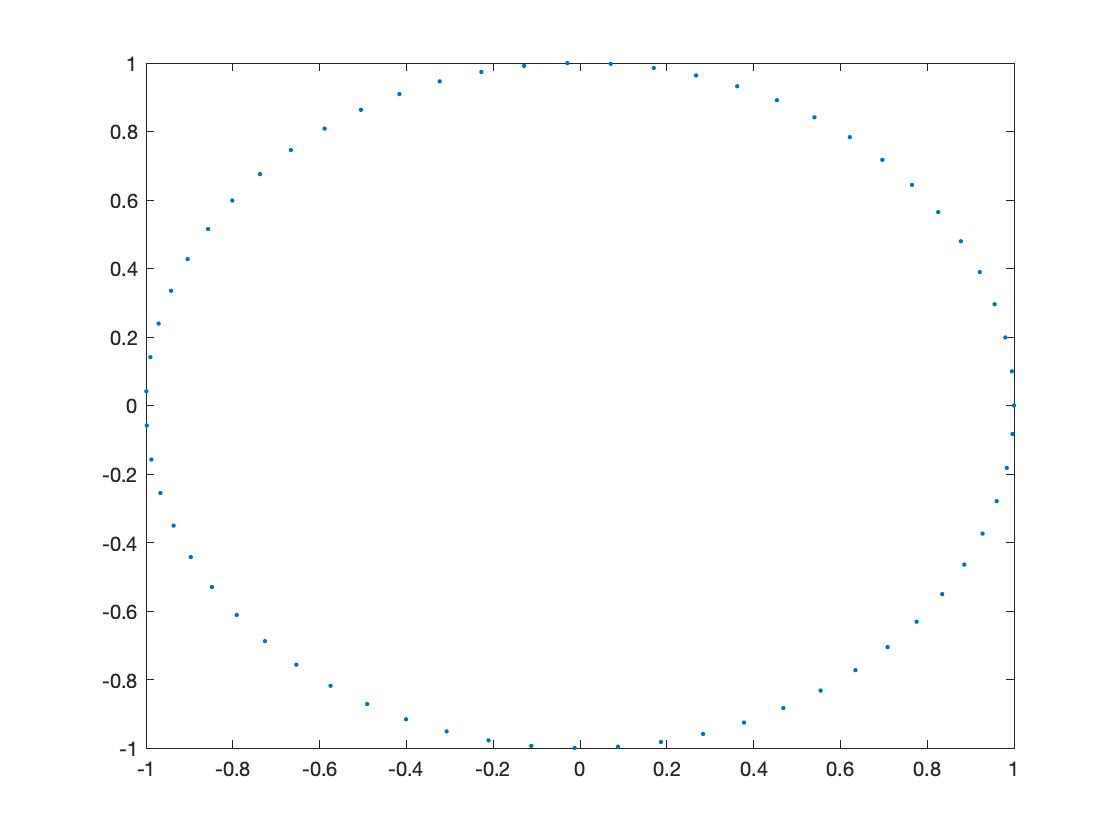
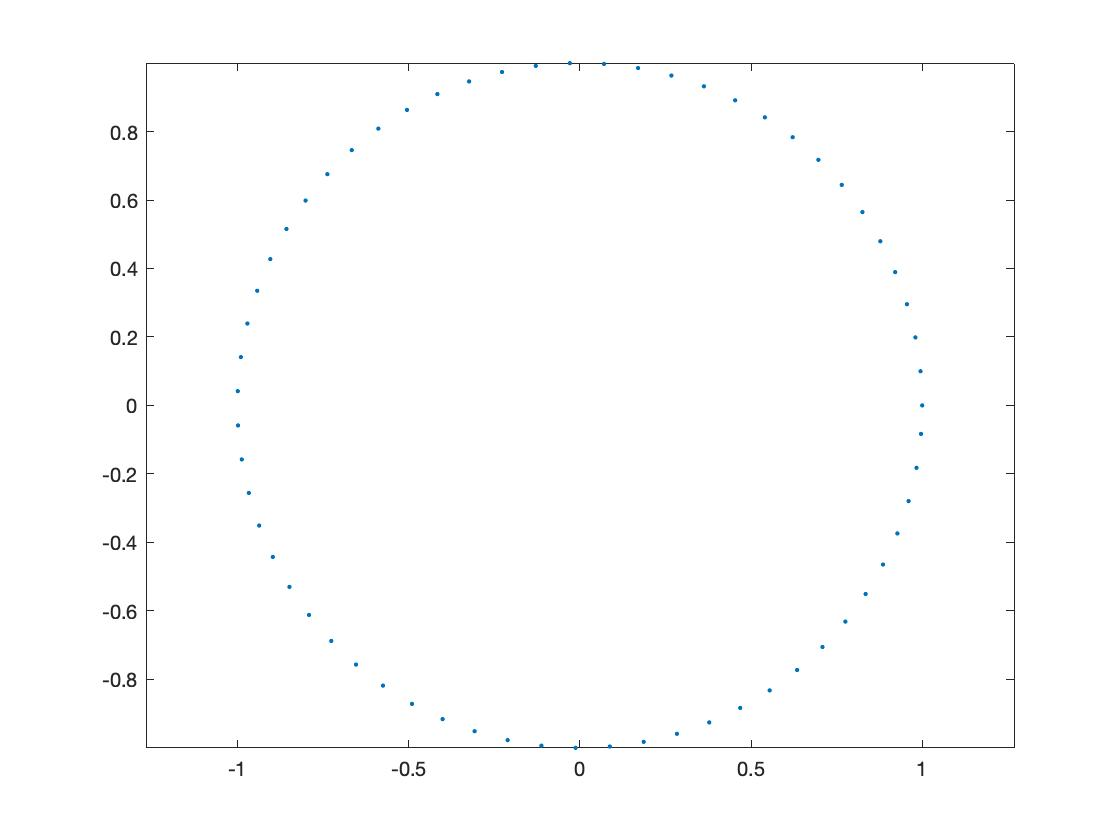
a1 fix

diff --git a/a1/assignment1data/ce1.m b/a1/assignment1data/ce1.m
@@ -1,8 +1,12 @@
 D = load('compEx1.mat');
 x2d = D.x2D;
 x2d_flat = pflat(x2d);
-%plot(x2d_flat(1,:),x2d_flat(2,:),'.')
+figure
+plot(x2d_flat(1,:),x2d_flat(2,:),'.')
+axis equal;
 
 x3d = D.x3D;
 x3d_flat = pflat(x3d);
+figure
 plot3(x3d_flat(1,:),x3d_flat(2,:),x3d_flat(3,:),'.');
+axis equal;

diff --git a/a1/assignment1data/e5.m b/a1/assignment1data/e5.m
@@ -1,0 +1,3 @@
+P = [ 1 0 0 0 ; 0 1 0 0 ; 0 0 1 1 ]
+C = pflat(null(P))
+v = P(3,1:3)
